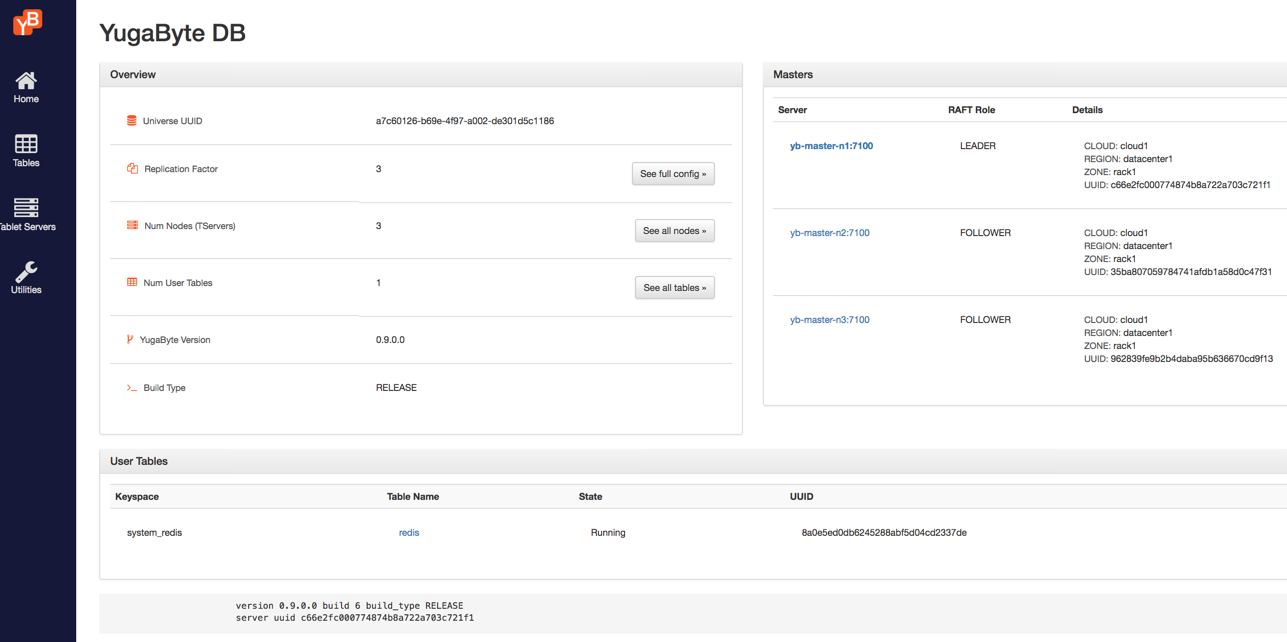
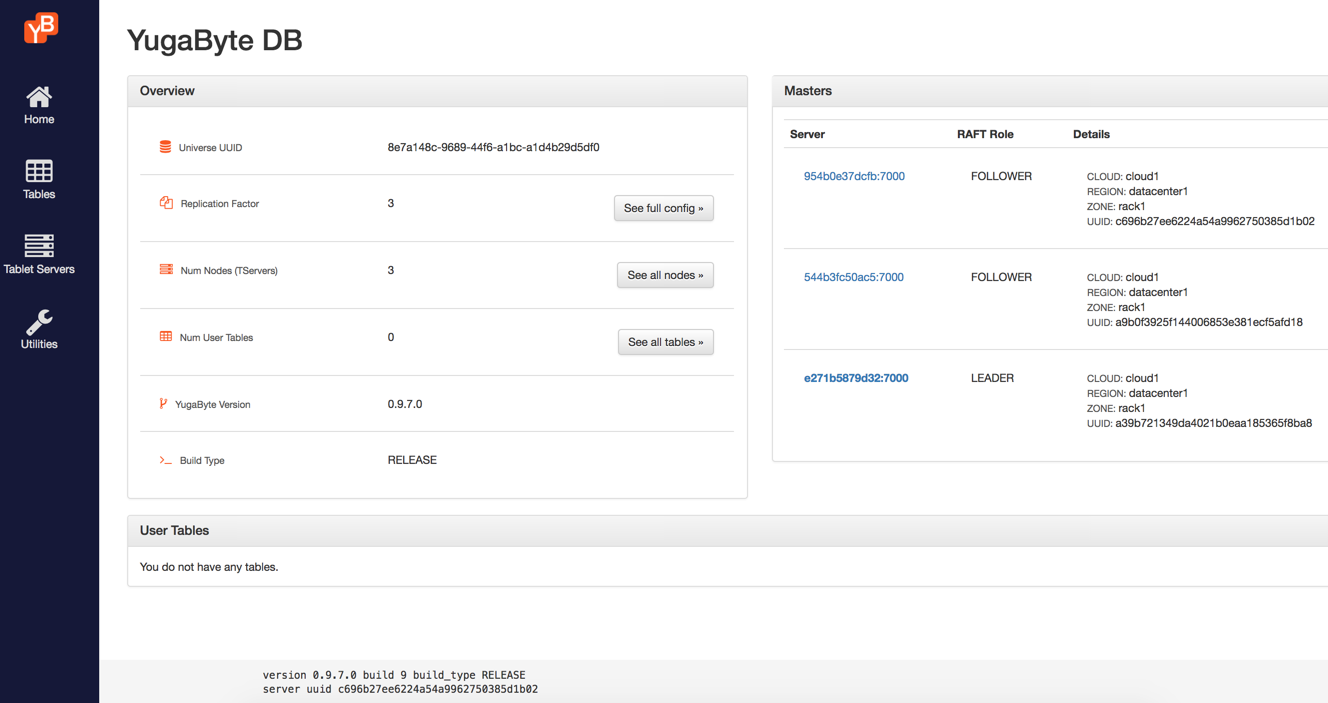
updated redis table screenshot and changed to v0.9.8.0
Test Plan: local

Reviewers: bogdan, ram

Reviewed By: ram

Differential Revision: https://phabricator.dev.yugabyte.com/D4439

diff --git a/docs/content/develop/realworld-apps/_index.html b/docs/content/develop/realworld-apps/_index.html
@@ -5,12 +5,25 @@ weight: 580
 
 The following examples illustrate how real-world, end-to-end applications can be built using YugaByte DB and it's ecosystem integrations with Apache Spark, Apache Kafka, Spring Boot and KairosDB, just to name a few.
 
+
+<a class="section-link icon-offset" href="ecommerce-app/">
+  <div class="icon">
+      <img src="/images/section_icons/develop/apps/e-commerce.png" aria-hidden="true" />
+  </div>
+  <div class="text">
+     E-Commerce
+     <div class="caption">A distributed E-Commerce app using ReactJS, NodeJS Express and YugaByte DB.</div>
+  </div>
+</a>
+
 <a class="section-link icon-offset" href="iot-spark-kafka/">
   <div class="icon">
-      <img src="/images/section_icons/develop/iot-icon.png" aria-hidden="true" />
+      <img src="/images/section_icons/develop/apps/iot.png" aria-hidden="true" />
   </div>
   <div class="text">
      IoT Fleet Management
-     <div class="caption">A real-time fleet-management dashboard app using Apache Spark, Apache Kafka, Sprint Boot and YugaByte DB Cassandra API.</div>
+     <div class="caption">A real-time fleet-management dashboard app using Apache Spark, Apache Kafka, Sprint Boot and YugaByte DB.</div>
   </div>
 </a>
+
+

diff --git a/docs/content/quick-start/docker/create-local-cluster.md b/docs/content/quick-start/docker/create-local-cluster.md
@@ -32,7 +32,7 @@ The [yb-master-n1 Admin UI](/admin/yb-master/#admin-ui) is available at http://l
 
 ### 3.1 Overview and Master status
 
-The yb-master-n1 home page shows that we have a cluster (aka a Universe) with `Replication Factor` of 3 and `Num Nodes (TServers)` as 3. The `Num User Tables` is set to 1 because of the `system_redis.redis` table that `yb-docker-ctl` auto-creates in order to turn on YugaByte Redis service. YugaByte DB version number is also shown for your reference. 
+The yb-master-n1 home page shows that we have a cluster (aka a Universe) with `Replication Factor` of 3 and `Num Nodes (TServers)` as 3. The `Num User Tables` is 0 since there are no user tables created yet. YugaByte DB version number is also shown for your reference. 
 
 ![master-home](/images/admin/master-home-docker.png)
 

diff --git a/docs/content/quick-start/kubernetes/create-local-cluster.md b/docs/content/quick-start/kubernetes/create-local-cluster.md
@@ -86,7 +86,7 @@ Now, you can view the [yb-master-0 Admin UI](/admin/yb-master/#admin-ui) is avai
 
 ### 5.1 Overview and Master status
 
-The yb-master-0 home page shows that we have a cluster (aka a Universe) with `Replication Factor` of 3 and `Num Nodes (TServers)` as 3. The `Num User Tables` is set to 1 because of the `system_redis.redis` table we previously created to turn on the Redis API. YugaByte DB version is also shown for your reference. 
+The yb-master-0 home page shows that we have a cluster (aka a Universe) with `Replication Factor` of 3 and `Num Nodes (TServers)` as 3. The `Num User Tables` is 0 since there are no user tables created yet. YugaByte DB version is also shown for your reference. 
 
 ![master-home](/images/admin/master-home-kubernetes.png)
 

diff --git a/docs/content/quick-start/binary/macos-install.md b/docs/content/quick-start/binary/macos-install.md
@@ -7,10 +7,10 @@
 Download the YugaByte CE package as shown below.
 
 ```{.sh .copy .separator-dollar}
-$ wget https://downloads.yugabyte.com/yugabyte-ce-0.9.7.0-darwin.tar.gz
+$ wget https://downloads.yugabyte.com/yugabyte-ce-0.9.8.0-darwin.tar.gz
 ```
 ```{.sh .copy .separator-dollar}
-$ tar xvfz yugabyte-ce-0.9.7.0-darwin.tar.gz && cd yugabyte-0.9.7.0/
+$ tar xvfz yugabyte-ce-0.9.8.0-darwin.tar.gz && cd yugabyte-0.9.8.0/
 ```
 
 ## Configure

diff --git a/docs/content/quick-start/binary/linux-install.md b/docs/content/quick-start/binary/linux-install.md
@@ -12,10 +12,10 @@ Download the YugaByte CE package as shown below.
 
 
 ```{.sh .copy .separator-dollar}
-$ wget https://downloads.yugabyte.com/yugabyte-ce-0.9.7.0-linux.tar.gz
+$ wget https://downloads.yugabyte.com/yugabyte-ce-0.9.8.0-linux.tar.gz
 ```
 ```{.sh .copy .separator-dollar}
-$ tar xvfz yugabyte-ce-0.9.7.0-linux.tar.gz && cd yugabyte-0.9.7.0/
+$ tar xvfz yugabyte-ce-0.9.8.0-linux.tar.gz && cd yugabyte-0.9.8.0/
 ```
 
 ## Configure

diff --git a/docs/content/develop/realworld-apps/ecommerce-app.md b/docs/content/develop/realworld-apps/ecommerce-app.md
@@ -1,6 +1,6 @@
 ---
-title: Ecommerce App
-weight: 584
+title: E-Commerce App
+weight: 582
 ---
 
 ## Overview
